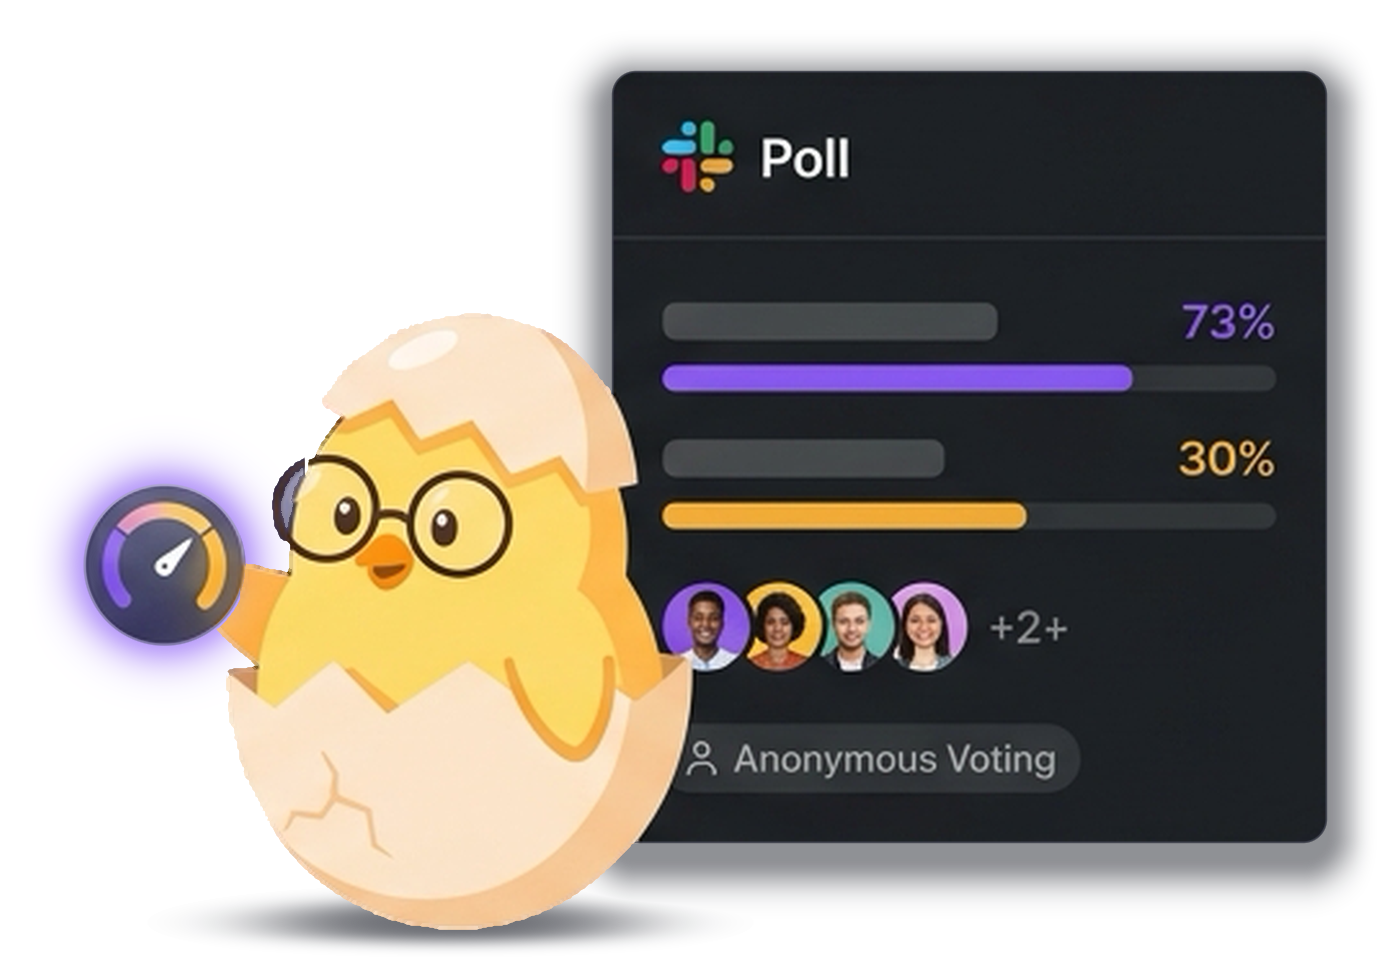
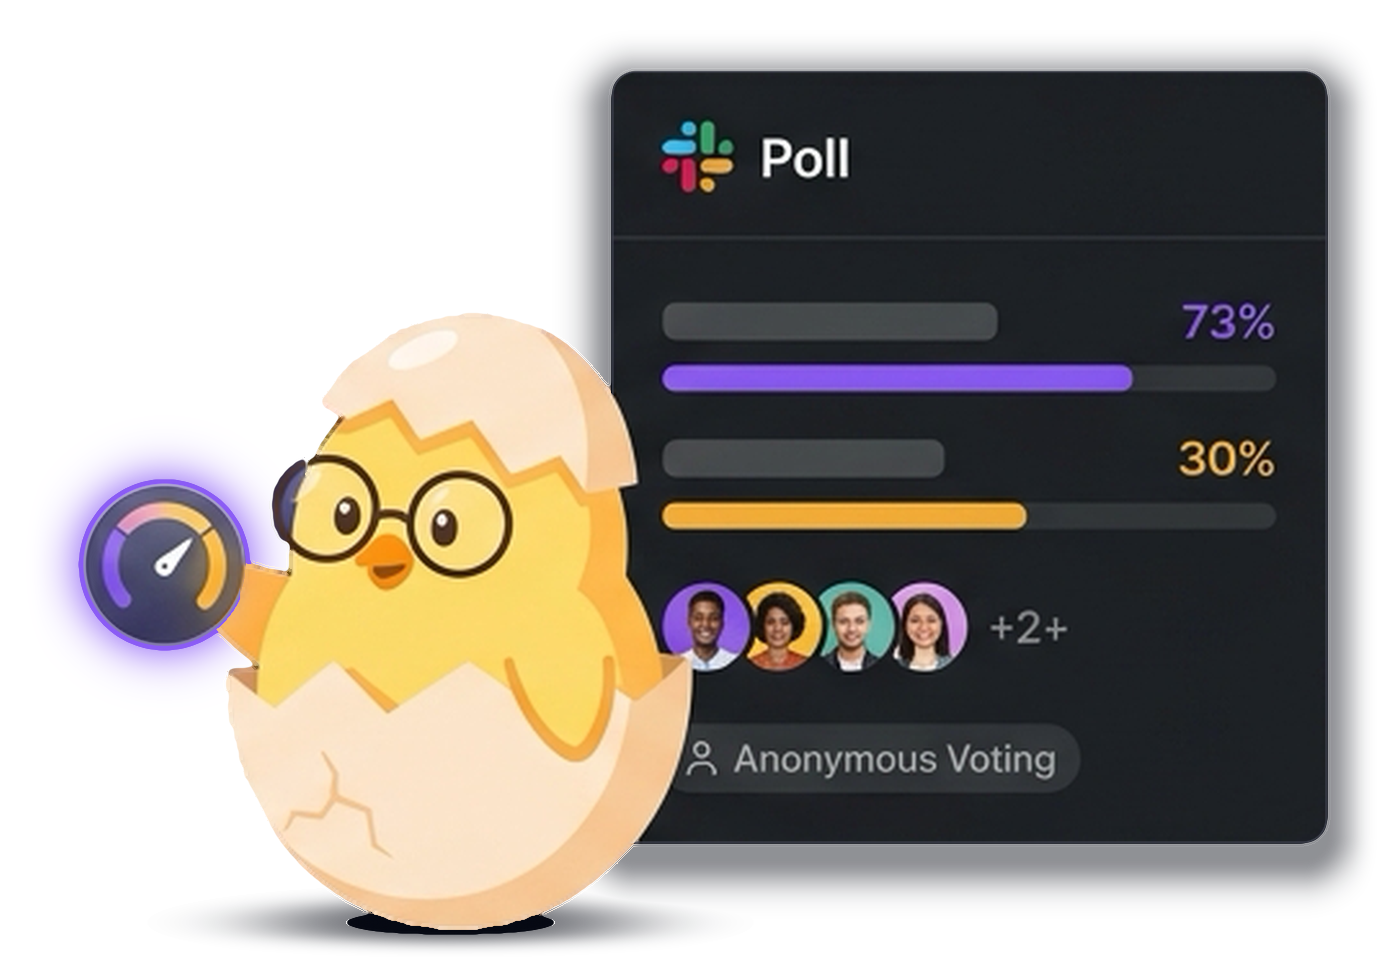
fix(assets): smooth the jagged cut-out edge of the hero mascot
The transparency mask of the hero illustration was stair-stepped by about
3 px. Rebuild the contour at 3x resolution, anti-alias it, and bleed the
nearest solid colour into the edge pixels. Soft glows and shadows keep their
original alpha. The script is kept for regenerating the asset.

diff --git a/public/es/index.html b/public/es/index.html
@@ -77,7 +77,7 @@
           </div>
 
           <div class="hero-visual-stage">
-            <img src="../assets/plates/mascot-pollito-stage.png?v=5" alt="Mascota Pollito junto a una tarjeta de votación en Slack" width="1400" height="980">
+            <img src="../assets/plates/mascot-pollito-stage.png?v=6" alt="Mascota Pollito junto a una tarjeta de votación en Slack" width="1400" height="980">
           </div>
         </div>
       </section>

diff --git a/public/en/index.html b/public/en/index.html
@@ -77,7 +77,7 @@
           </div>
 
           <div class="hero-visual-stage">
-            <img src="../assets/plates/mascot-pollito-stage.png?v=5" alt="Pollito mascot with spectacles beside a Slack poll card" width="1400" height="980">
+            <img src="../assets/plates/mascot-pollito-stage.png?v=6" alt="Pollito mascot with spectacles beside a Slack poll card" width="1400" height="980">
           </div>
         </div>
       </section>

diff --git a/public/index.html b/public/index.html
@@ -77,7 +77,7 @@
           </div>
 
           <div class="hero-visual-stage">
-            <img src="assets/plates/mascot-pollito-stage.png?v=5" alt="Pollito mascot with spectacles beside a Slack poll card" width="1400" height="980">
+            <img src="assets/plates/mascot-pollito-stage.png?v=6" alt="Pollito mascot with spectacles beside a Slack poll card" width="1400" height="980">
           </div>
         </div>
       </section>

diff --git a/scripts/assets/smooth-mascot-edges.py b/scripts/assets/smooth-mascot-edges.py
@@ -1,0 +1,64 @@
+#!/usr/bin/env python3
+"""Smooths the stair-stepped alpha edge of the hero mascot PNG.
+
+The cut-out has a hard, blocky transparency mask. This script rebuilds the contour of the
+solid shapes at 3x resolution, anti-aliases it, and bleeds the nearest solid colour into the
+edge pixels so no dark or light fringe appears. Soft glows and shadows keep their original alpha.
+
+Usage: python3 -I scripts/assets/smooth-mascot-edges.py SOURCE.png OUTPUT.png
+Requires Pillow, numpy, and scipy.
+"""
+import sys
+
+import numpy as np
+from PIL import Image
+from scipy import ndimage as ndi
+
+SCALE = 3          # supersampling factor for the contour
+SIGMA = 2.4        # contour smoothing, in source pixels (steps in the cut-out are about 3 px)
+EDGE_LOW, EDGE_HIGH = 0.38, 0.62  # smoothstep band that makes the edge soft but crisp
+SOLID = 0.5        # alpha above this counts as part of a solid shape
+
+
+def smoothstep(x, lo, hi):
+    t = np.clip((x - lo) / (hi - lo), 0.0, 1.0)
+    return t * t * (3 - 2 * t)
+
+
+def main(src: str, dst: str) -> None:
+    img = Image.open(src).convert("RGBA")
+    arr = np.asarray(img).astype(np.float32) / 255.0
+    rgb, alpha = arr[..., :3], arr[..., 3]
+    h, w = alpha.shape
+
+    solid = (alpha >= SOLID).astype(np.float32)
+    up = np.asarray(
+        Image.fromarray((solid * 255).astype(np.uint8)).resize((w * SCALE, h * SCALE), Image.BICUBIC)
+    ).astype(np.float32) / 255.0
+    up = ndi.gaussian_filter(up, SIGMA * SCALE)
+    contour = smoothstep(up, EDGE_LOW, EDGE_HIGH)
+    contour = np.asarray(
+        Image.fromarray((contour * 255).astype(np.uint8)).resize((w, h), Image.LANCZOS)
+    ).astype(np.float32) / 255.0
+
+    # Keep soft glows and shadows (low alpha), replace the solid contour with the smooth one.
+    soft = np.where(alpha < SOLID, alpha, 0.0)
+    new_alpha = np.maximum(contour, soft)
+
+    # Bleed solid colour outwards so freshly opaque edge pixels do not pick up stray colours.
+    weight = ndi.gaussian_filter(solid, 2.0)
+    bled = np.stack(
+        [ndi.gaussian_filter(rgb[..., c] * solid, 2.0) / np.maximum(weight, 1e-4) for c in range(3)],
+        axis=-1,
+    )
+    near_edge = (ndi.binary_dilation(solid > 0, iterations=4)) & (solid == 0)
+    out_rgb = np.where(near_edge[..., None] & (contour[..., None] > 0), bled, rgb)
+
+    out = np.dstack([out_rgb, new_alpha])
+    Image.fromarray((np.clip(out, 0, 1) * 255 + 0.5).astype(np.uint8), "RGBA").save(dst, optimize=True)
+
+
+if __name__ == "__main__":
+    if len(sys.argv) != 3:
+        sys.exit(__doc__)
+    main(sys.argv[1], sys.argv[2])
